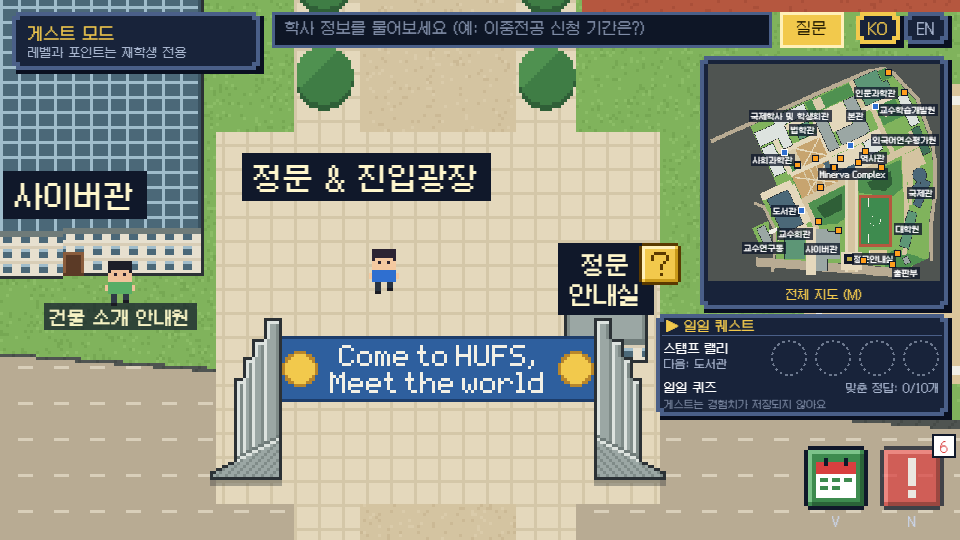
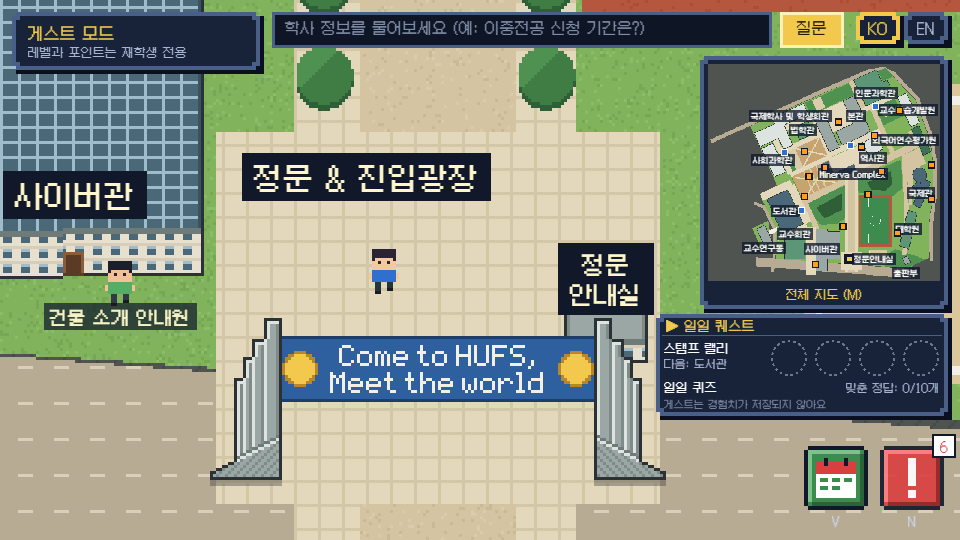
fix: 퀴즈 상자 후보에서 이름표 · 안내원 글자 · 팻말 · 부스 칸 빼기(정문 안내실 이름표 위 상자)
- PC 첫 화면 캡처에서 "?" 퀴즈 상자가 "정문 안내실" 이름표 위에 겹쳐 보이던 것. 후보가 정문 그림만 피하고 있었음
- WORLD.quizSpots: 상자(16×16 + 위로 흔들림 2px, 여유 4px = quizBoxRect)가 건물 · 열린 공간 이름표(한/영),
  안내원 발밑 이름표(guideTextRect), 스탬프 랠리 팻말(signArtRect) · 부스(boothRect)와 겹치는 자리를 뺌. 후보 2342 → 2260(82곳)
- 건물 이름표 자리는 CampusScene.layoutNameTag와 같은 피하기 목록으로 어림(buildingTagRect, buildingLabels.js)
- CampusScene의 팻말 · 부스 칸 숫자를 stampRallySpots.js signArtRect · boothArtRect로 옮겨 같이 씀(값 같음),
  퀴즈 상자 크기 · 흔들림은 campusV2.js quizBoxRect로(정문 피하기도 같은 함수)
- 테스트: 모든 후보가 위 칸들과 안 겹침, 여유 4 · 상자 크기 값 확인. 일부러 망가뜨려 실패 확인 후 원복
- first-pc-open 다시 캡처

diff --git a/tests/stampRallySpots.test.js b/tests/stampRallySpots.test.js
@@ -1,9 +1,11 @@
 // 스탬프 랠리 부스 · "시설 안내문" 팻말 자리(src/data/stampRallySpots.js)와 [Enter] 시설 소개 위치를 확인합니다. 실행: npm test
 import { test } from "node:test";
 import assert from "node:assert/strict";
-import { BUILDINGS, BUILDING_BASE, CELL_PX, GRID_W, MAT, PASSAGES, SPAWN, WORLD_H, WORLD_W, doorFrontOf, doorOf, feetOverlap, fits, gateRects, quizSpots, isReachable, matAt, moveFeet, reachable } from "../src/data/campusV2.js";
+import { BUILDINGS, BUILDING_BASE, CELL_PX, GRID_W, MAT, PASSAGES, SPAWN, WORLD_H, WORLD_W, doorFrontOf, doorOf, feetOverlap, fits, gateRects, quizSpots, quizBoxRect, QUIZ_LABEL_CLEAR, isReachable, matAt, moveFeet, reachable } from "../src/data/campusV2.js";
 import { WORLD } from "../src/data/world.js";
-import { BOOTH_TALK, boothRect, boothTalkPoint, feetHitBooth, feetHitSign, rallySpotsOf, rallyStops } from "../src/data/stampRallySpots.js";
+import { BOOTH_TALK, boothArtRect, boothRect, boothTalkPoint, feetHitBooth, feetHitSign, rallySpotsOf, rallyStops, signArtRect } from "../src/data/stampRallySpots.js";
+import { guideTextRect } from "../src/data/guides.js";
+import { buildingTagRect, estimateLabelSize } from "../src/data/buildingLabels.js";
 import { GUIDE_RANGE, nearestOfficePlace, officeSpot } from "../src/ui/officeView.js";
 import { STAMP_RALLY_IDS } from "../shared/stampRally.js";
 import { BOOTH_SIZE } from "../src/gfx/rallyTextures.js";
@@ -178,4 +180,37 @@ test("정문 기둥 · 현수막(#114)과 겹치지 않음: 부스 그림 · 팻
     assert.ok(v2Spots.has(`${q.x},${q.y}`), `(${q.x}, ${q.y})는 정문 제외 목록에 없는 후보`);
     for (const r of gate) assert.ok(!hit({ x: q.x - 8, y: q.y - 10, w: 16, h: 18 }, r), `(${q.x}, ${q.y}) 정문 그림과 겹침`);
   }
+});
+
+test("퀴즈 상자 후보(11/27): 상자 16×16 + 흔들림 2px + 여유 4px가 건물 · 열린 공간 이름표, 안내원 발밑 이름표, 스탬프 랠리 팻말 · 부스 칸과 안 겹침", () => {
+  const gate = gateRects().map((r) => ({ x0: r.x, y0: r.y, x1: r.x + r.w, y1: r.y + r.h }));
+  const guides = WORLD.buildings.filter((b) => b.guide);
+  const rally = WORLD.buildings.filter((b) => b.sign);
+  // 화면(CampusScene.layoutNameTag)과 같은 피하기 목록으로 이름표 자리를 따로 다시 계산
+  const avoid = [...guides.map((b) => guideTextRect(b.guide)), ...gate, ...rally.map((b) => signArtRect(b.sign)), ...rally.map((b) => boothArtRect(b.booth))];
+  const blocks = [
+    ...WORLD.buildings.flatMap((b) => ["ko", "en"].map((lang) => ({ name: `${b.id} 이름표(${lang})`, ...buildingTagRect(b, lang, avoid, gate) }))),
+    ...WORLD.openSpaces.flatMap((s) =>
+      ["ko", "en"].map((lang) => {
+        const { w, h } = estimateLabelSize((lang === "en" ? s.nameEn : null) ?? s.name, 1, 1);
+        return { name: `${s.id} 이름표(${lang})`, x0: s.tag.x - w / 2, x1: s.tag.x + w / 2, y0: s.tag.y - h / 2, y1: s.tag.y + h / 2 };
+      }),
+    ),
+    ...guides.map((b) => ({ name: `${b.id} 안내원 이름표`, ...guideTextRect(b.guide) })),
+    ...rally.map((b) => ({ name: `${b.id} 팻말`, ...signArtRect(b.sign) })),
+    ...rally.map((b) => ({ name: `${b.id} 부스`, ...boothRect(b.booth) })),
+  ];
+  // 상자 16×16 + 위로 흔들림 2px, 여유 4px(PM 결정 값)
+  assert.equal(QUIZ_LABEL_CLEAR, 4);
+  assert.deepEqual(quizBoxRect(0, 0, QUIZ_LABEL_CLEAR), { x0: -12, x1: 12, y0: -14, y1: 12 });
+  const spots = WORLD.quizSpots();
+  for (const s of spots) {
+    const q = quizBoxRect(s.x, s.y, QUIZ_LABEL_CLEAR);
+    for (const r of blocks) assert.ok(q.x1 <= r.x0 || r.x1 <= q.x0 || q.y1 <= r.y0 || r.y1 <= q.y0, `(${s.x}, ${s.y}) 퀴즈 상자가 ${r.name}과(와) 겹침`);
+  }
+  // 빠진 후보 수(전 → 후)와 캡처에서 보였던 '정문 안내실' 이름표 자리
+  const before = WORLD.quizSpots({ skipLabels: true }).length;
+  assert.ok(before - spots.length > 0 && before - spots.length < 200, `빠진 후보 ${before - spots.length}개 (${before} → ${spots.length})`);
+  const gatehouseTag = blocks.find((r) => r.name === "gatehouse 이름표(ko)");
+  assert.ok(!spots.some((s) => { const q = quizBoxRect(s.x, s.y); return q.x0 < gatehouseTag.x1 && gatehouseTag.x0 < q.x1 && q.y0 < gatehouseTag.y1 && gatehouseTag.y0 < q.y1; }), "'정문 안내실' 이름표 위 후보가 남음");
 });

diff --git a/src/data/world.js b/src/data/world.js
@@ -2,8 +2,9 @@ import * as v1 from "./campus.js";
 import * as v2 from "./campusV2.js";
 import { TILE_SIZE } from "../gfx/textures.js";
 import { hasOfficeInfo } from "../ui/officeView.js";
-import { awayFromGuides, guideSpotOf } from "./guides.js";
-import { awayFromRally, rallySpotsOf } from "./stampRallySpots.js";
+import { awayFromGuides, guideSpotOf, guideTextRect } from "./guides.js";
+import { awayFromRally, boothArtRect, boothRect, rallySpotsOf, signArtRect } from "./stampRallySpots.js";
+import { buildingTagRect, estimateLabelSize } from "./buildingLabels.js";
 
 /*
  * 화면 코드가 쓰는 캠퍼스 맵 하나를 고릅니다.
@@ -80,6 +81,36 @@ function makeV2() {
   const byId = new Map();
   const buildings = v2.BUILDINGS.map((b) => byId.set(b.id, wrap(b)).get(b.id));
   const openSpaces = v2.OPEN_SPACES.map((s) => byId.set(s.id, wrap(s)).get(s.id));
+  // 퀴즈 상자가 피할 칸(11/27): 건물 · 열린 공간 이름표(한/영), 안내원 발밑 이름표, 스탬프 랠리 팻말 · 부스 바닥.
+  // 이름표 자리는 CampusScene.layoutNameTag와 같은 피하기 목록(안내원 글자 · 정문 그림 · 팻말 · 부스 그림)으로 어림합니다.
+  let labelRects = null;
+  const quizBlockRects = () => {
+    if (labelRects) return labelRects;
+    const guideRects = buildings.filter((b) => b.guide).map((b) => guideTextRect(b.guide));
+    const gate = v2.gateRects().map((r) => ({ x0: r.x, y0: r.y, x1: r.x + r.w, y1: r.y + r.h }));
+    const signs = buildings.filter((b) => b.sign).map((b) => signArtRect(b.sign));
+    const booths = buildings.filter((b) => b.booth).map((b) => boothRect(b.booth));
+    const avoid = [...guideRects, ...gate, ...signs, ...buildings.filter((b) => b.booth).map((b) => boothArtRect(b.booth))];
+    const tags = buildings.flatMap((b) => ["ko", "en"].map((lang) => ({ name: `${b.id} 이름표(${lang})`, ...buildingTagRect(b, lang, avoid, gate) })));
+    const openTags = openSpaces.flatMap((s) =>
+      ["ko", "en"].map((lang) => {
+        const { w, h } = estimateLabelSize((lang === "en" ? s.nameEn : null) ?? s.name, 1, 1);
+        return { name: `${s.id} 이름표(${lang})`, x0: s.tag.x - w / 2, x1: s.tag.x + w / 2, y0: s.tag.y - h / 2, y1: s.tag.y + h / 2 };
+      }),
+    );
+    labelRects = [
+      ...tags,
+      ...openTags,
+      ...guideRects.map((r) => ({ name: "안내원 이름표", ...r })),
+      ...signs.map((r) => ({ name: "팻말", ...r })),
+      ...booths.map((r) => ({ name: "부스", ...r })),
+    ];
+    return labelRects;
+  };
+  const clearOfBlocks = (s) => {
+    const q = v2.quizBoxRect(s.x, s.y, v2.QUIZ_LABEL_CLEAR);
+    return quizBlockRects().every((r) => q.x1 <= r.x0 || r.x1 <= q.x0 || q.y1 <= r.y0 || r.y1 <= q.y0);
+  };
   return {
     version: "v2",
     width: v2.WORLD_W,
@@ -88,12 +119,14 @@ function makeV2() {
     spawn: { ...v2.SPAWN },
     buildings,
     openSpaces,
-    // 퀴즈 상자는 건물 소개 안내원 · 안내원 아래 글자 · 스탬프 랠리 부스 · 팻말과 겹치지 않는 자리만
-    quizSpots: () => {
+    // 퀴즈 상자는 건물 소개 안내원 · 안내원 아래 글자 · 스탬프 랠리 부스 · 팻말과 겹치지 않는 자리만.
+    // 11/27: 건물 · 열린 공간 이름표 칸도(상자 16×16 + 흔들림 2px, 여유 4px). skipLabels: 빠진 개수 확인용(테스트)
+    quizSpots: ({ skipLabels = false } = {}) => {
       const guides = buildings.filter((b) => b.guide).map((b) => b.guide);
       const rally = buildings.filter((b) => b.booth);
-      return v2.quizSpots().filter((s) => awayFromGuides(s, guides) && awayFromRally(s, rally));
+      return v2.quizSpots().filter((s) => awayFromGuides(s, guides) && awayFromRally(s, rally) && (skipLabels || clearOfBlocks(s)));
     },
+    quizBlockRects,
     nearestPlace: (x, y) => byId.get(v2.nearestPlace(x, y).id),
     moveFeet: v2.moveFeet,
   };

diff --git a/src/scenes/CampusScene.js b/src/scenes/CampusScene.js
@@ -16,7 +16,7 @@ import { signOut } from "../data/auth.js";
 import { resetProgressCache } from "../data/progressApi.js";
 import { getLang, onLangChange, resetSession, t } from "../state.js";
 import { BOOTH_SIZE, BOOTH_TEXTURE, registerRallyTextures, signTexture } from "../gfx/rallyTextures.js";
-import { BOOTH_TALK, boothTalkPoint, feetHitBooth, feetHitSign } from "../data/stampRallySpots.js";
+import { BOOTH_TALK, boothArtRect, boothTalkPoint, feetHitBooth, feetHitSign, signArtRect } from "../data/stampRallySpots.js";
 import { placeName, trackedDestination } from "../ui/campusMap.js";
 import { createPlannerOverlay } from "../ui/plannerOverlay.js";
 import { SHOW_OUT_OF_SCOPE } from "../data/features.js";
@@ -589,8 +589,8 @@ export class CampusScene extends Phaser.Scene {
     const avoid = [
       ...WORLD.buildings.filter((b) => b.guide).map((b) => guideTextRect(b.guide)),
       ...gate,
-      ...WORLD.buildings.filter((b) => b.sign).map((b) => ({ x0: b.sign.x - 28, x1: b.sign.x + 28, y0: b.sign.y - 24, y1: b.sign.y + 8 })),
-      ...WORLD.buildings.filter((b) => b.booth).map((b) => ({ x0: b.booth.x - 34, x1: b.booth.x + 34, y0: b.booth.y - 52, y1: b.booth.y + 8 })),
+      ...WORLD.buildings.filter((b) => b.sign).map((b) => signArtRect(b.sign)),
+      ...WORLD.buildings.filter((b) => b.booth).map((b) => boothArtRect(b.booth)),
     ];
     const spot = placeBuildingLabel(place, measure, avoid);
     const { w, h } = measure(spot.scale, spot.lines);

diff --git a/src/data/campusV2.js b/src/data/campusV2.js
@@ -229,9 +229,20 @@ export const GATE = (() => {
 })();
 // 정문 그림(기둥 · 그림자 · 현수막)이 덮는 사각형들
 export const gateRects = () => [...GATE.pillars.map((p) => p.rect), GATE.banner];
-const QUIZ_BOX_HALF = 8; // 퀴즈 상자 16×16px(위아래로 2px 흔들림)
-const overlapsGate = (x, y) =>
-  gateRects().some((r) => x - QUIZ_BOX_HALF < r.x + r.w && r.x < x + QUIZ_BOX_HALF && y - QUIZ_BOX_HALF - 2 < r.y + r.h && r.y < y + QUIZ_BOX_HALF);
+export const QUIZ_BOX_HALF = 8; // 퀴즈 상자 16×16px
+export const QUIZ_BOX_BOB = 2; // 위로 2px 흔들림(src/quizBoxes.js 트윈)
+export const QUIZ_LABEL_CLEAR = 4; // 이름표 · 안내원 글자 · 팻말 · 부스와 둘 여유(11/27)
+// 퀴즈 상자(가운데 x, y)가 흔들리며 덮는 사각형, margin만큼 넓혀서(x0, y0, x1, y1)
+export const quizBoxRect = (x, y, margin = 0) => ({
+  x0: x - QUIZ_BOX_HALF - margin,
+  x1: x + QUIZ_BOX_HALF + margin,
+  y0: y - QUIZ_BOX_HALF - QUIZ_BOX_BOB - margin,
+  y1: y + QUIZ_BOX_HALF + margin,
+});
+const overlapsGate = (x, y) => {
+  const q = quizBoxRect(x, y);
+  return gateRects().some((r) => q.x0 < r.x + r.w && r.x < q.x1 && q.y0 < r.y + r.h && r.y < q.y1);
+};
 
 // ── 시작 위치 · 도달 가능 칸(4px 격자점 BFS) ─────────────────
 const snap = (v) => Math.floor(v / CELL_PX) * CELL_PX + CELL_PX / 2;

diff --git a/src/data/buildingLabels.js b/src/data/buildingLabels.js
@@ -84,6 +84,18 @@ export function liftClear(x, y, w, h, rects, maxLift = 64) {
   return y;
 }
 
+// 화면에 그리는 건물 이름표 칸의 어림(글자 크기는 estimateLabelSize). CampusScene.layoutNameTag와 같은 순서:
+// 지붕 안 자리(avoid 피함) → liftRects(정문 그림)에 가리면 위로. lang: "ko" | "en". 반환 { x0, y0, x1, y1 }
+export function buildingTagRect(b, lang, avoid = [], liftRects = []) {
+  const name = (lang === "en" ? b.nameEn : null) ?? b.name;
+  const two = lang === "en" ? name : b.mapName ?? name;
+  const measure = (scale, lines) => estimateLabelSize(lines === 2 ? two : name, scale, lines);
+  const spot = placeBuildingLabel(b, measure, avoid);
+  const { w, h } = measure(spot.scale, spot.lines);
+  const y = liftClear(spot.x, spot.y, w, h, liftRects);
+  return { x0: spot.x - w / 2, x1: spot.x + w / 2, y0: y - h / 2, y1: y + h / 2 };
+}
+
 // 이름을 두 줄로 나눕니다. buildingInfo.js mapName처럼 이미 줄바꿈("\n")이 있으면 그 자리에서,
 // 없으면 가운데에 가까운 띄어쓰기(영어), 그것도 없으면 글자 수 절반.
 export function splitTwoLines(name) {

diff --git a/src/data/stampRallySpots.js b/src/data/stampRallySpots.js
@@ -28,6 +28,11 @@ export const BOOTH_TALK = { dy: 14, range: 30 };
 export const boothTalkPoint = (s) => ({ x: s.x, y: s.y + BOOTH_TALK.dy });
 // 팻말에서 이 거리 안이면 "[Enter] 시설 소개"(예전 안내원과 같은 거리, officeView.js GUIDE_RANGE)
 
+// 그림이 덮는 칸(월드 px, x0 · y0 · x1 · y1): 건물 이름표 · 퀴즈 상자가 피합니다(CampusScene · world.js).
+// 팻말 칸: 판 · 기둥(가로 56px, 판 위 끝까지). 부스 그림 칸: 캐노피 · 테이블 · "[스탬프 랠리 부스]" 이름표까지.
+export const signArtRect = (s) => ({ x0: s.x - 28, x1: s.x + 28, y0: s.y - 24, y1: s.y + 8 });
+export const boothArtRect = (s) => ({ x0: s.x - 34, x1: s.x + 34, y0: s.y - 52, y1: s.y + 8 });
+
 // 캐릭터 발 상자(가운데 x, y)가 부스 바닥 사각형과 겹치는지
 export function feetHitBooth(x, y, booth) {
   const r = boothRect(booth);
